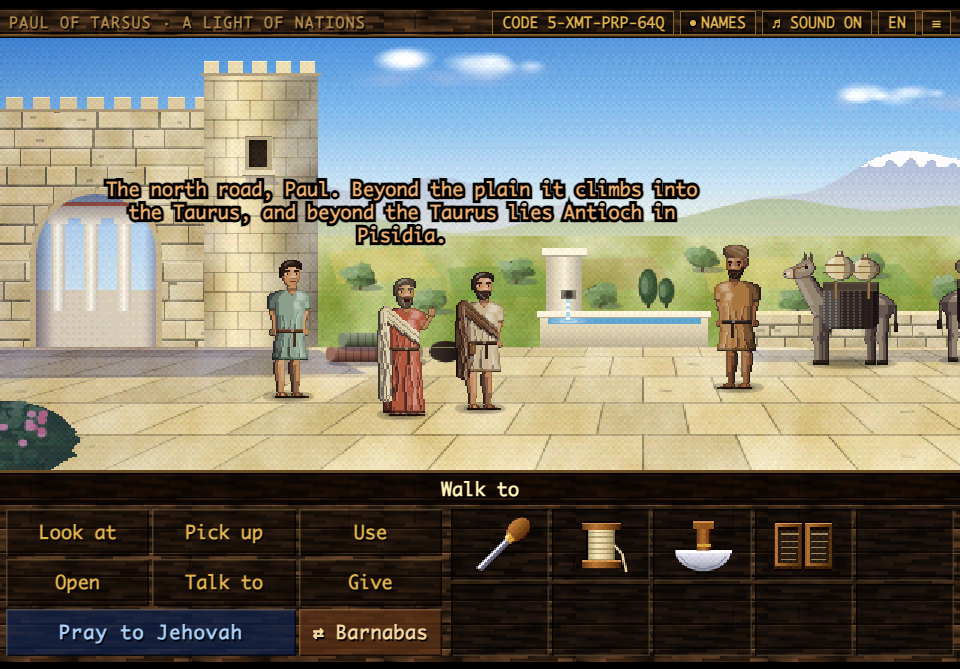
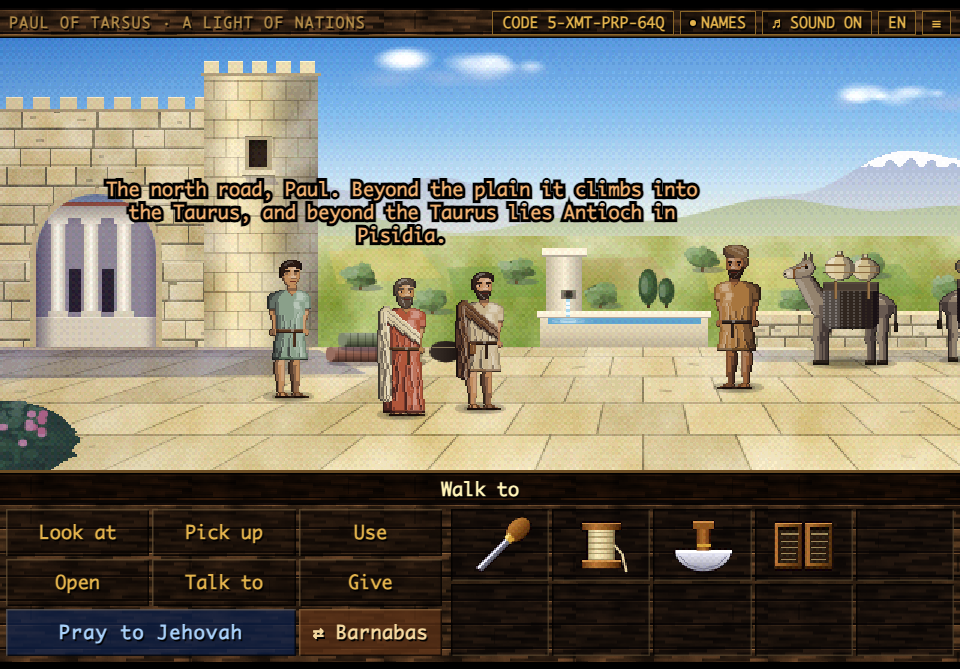
Streets: a street seen end-on is closed at its far end
Seven views where a street, seen end-on or through a gate, stopped against
the sky 12 to 18 pixels under the level its scene's paving runs to.

- Antioch, the courtyard gate (Chapters Three and Seven): the colonnade across
  the street has its shaded back wall and a doorway behind the columns. Sky
  and a strip of ground ran on behind them before, and each column stood
  across that level line. Chapter Seven showed two houses through this same
  gate; it now shows the colonnade of Chapter Three.
- Perga, the north gate: the colonnade inside it has its back wall, and the
  ground ends at its foot.
- The side streets of Antioch in Pisidia, Iconium (Chapters Six and Seven)
  and Philippi: a house front stands across the far end, its roof at the
  level the paving runs to.
- The documentation picture of Perga is retaken.

Changed region(s): [[0.0312, 0.3288, 0.1875, 0.4783], [0.4375, 0.4484, 0.4688, 0.5082]]

diff --git a/levels/chapter5.js b/levels/chapter5.js
@@ -64,12 +64,12 @@ ART.perga={w:480,fp:1.3,
   poly(g,[452,104,480,104,480,96,430,84,404,74,394,68,391,68,398,74,420,85,440,96],'#e6d8b0');stroke(g,[452,104,440,96,420,85,398,74,391,68],'rgba(120,100,60,.4)',.5);
   for(const[x,y]of[[136,80],[160,88],[188,78],[216,86],[306,76],[332,84],[358,78],[250,74],[282,88],[380,90]]){oval(g,x+2,y+3.4,5.6,1.1,'rgba(50,60,90,.34)');R(g,x-.4,y+1,1.2,2.8,'#5a4630');foliage(g,x,y-.6,5,3.2,'#6f8a58',r,22)}
   for(const[x,h]of[[232,12],[238,9],[346,11],[468,13],[474,9]])cypress(g,x,90,h);
-  /* the wall of Perga and its north gate, a round tower beside it */
+  /* the wall of Perga and its north gate, a round tower beside it. Through the gate: a colonnade of the city, whose shaded back wall closes the view */
   ashlar(g,0,24,112,80,ST,r,{bw:13,bh:6.4,v:.09,t:.35});for(let i=0;i<86;i+=9){R(g,i,19.6,5.6,4.4,ST);R(g,i,19.6,5.6,.5,'#f4e8c8')}R(g,0,23.6,112,1,'#a8987a');
   g.fillStyle=lg(g,84,0,122,0,['#b8ab8a','#efe2bc','#dccfa8','#a39a84','#8a8478']);g.fillRect(84,12,38,92);inRect(g,84,12,38,92,()=>{for(let j=14;j<104;j+=6.4)R(g,84,j,38,.6,'rgba(70,56,40,.3)');
     for(let j=0;j<15;j++)for(let i=0;i<5;i++)R(g,87+i*8+(j%2)*4,14+j*6.4,.6,6.4,'rgba(70,56,40,.2)');tex(g,'mott',.4,84,12,38,92,'overlay',1)});
   for(let i=84;i<122;i+=8){R(g,i,7.6,5,4.4,'#e2d5b0');R(g,i,7.6,5,.5,'#f8eccc')}R(g,83,11.6,40,1.2,'#a8987a');windowArt(g,99,34,6,9,ST,{dark:'#241a16'});
-  arch(g,26,50,44,54,'#c2b28c');g.save();arch(g,28,52,40,52);g.clip();sky(g,480,84,['#6aa2dc','#cfe2ee']);R(g,28,84,40,20,'#d9d0bc');
+  arch(g,26,50,44,54,'#c2b28c');g.save();arch(g,28,52,40,52);g.clip();sky(g,480,84,['#6aa2dc','#cfe2ee']);R(g,28,60,40,33,'#8f8894');for(const x of[38.8,49.8])R(g,x,77,4,14.4,'#2a2430');R(g,28,93,40,11,'#d9d0bc');R(g,28,93,40,.6,'#efe8d6');
   for(const cxx of[33,44,55]){g.fillStyle=lg(g,cxx,0,cxx+4.6,0,['#d8d0bc','#fbf7ea','#c8c0b0']);g.fillRect(cxx,62,4.6,30);R(g,cxx-1,60,6.6,2,'#efe8d6');R(g,cxx-1,91,6.6,2,'#d8d0bc')}R(g,28,56,40,4,'#e6dec8');R(g,28,54.6,40,1.6,'#b8603c');
   ao(g,28,52,40,11,'t',.55,'#2a2440');ao(g,28,52,6,52,'l',.5,'#2a2440');ao(g,64,52,4,52,'r',.35,'#2a2440');g.restore();
   for(let i=0;i<9;i++){const a=Math.PI+i/8*Math.PI;R(g,48+Math.cos(a)*22-.3,72+Math.sin(a)*22-1,.6,2.6,'#a8987a')}
@@ -161,8 +161,9 @@ ART.pisidia={w:480,fp:1.3,
   sky(g,480,70,['#3470c4','#629ad8','#9ec2e6','#d8e6ee']);cloud(g,96,9,54,7,r);cloud(g,262,16,46,6,r);cloud(g,420,8,40,6,r);
   /* the mountains north-east of the city, white half way down */
   snowy(g,0,480,62,sultan,['#93a2c8','#b2bcd0','#ccd0cc'],34);comp(g,'screen',.26,()=>R(g,0,6,480,58,'#d0dcee'));
-  /* the street we came by, running down to the south gate */
+  /* the street we came by, running down to the south gate. A house front stands across its far end, its roof at the level the paving runs to */
   R(g,0,40,58,64,'#cfc4a8');g.save();g.beginPath();g.rect(0,30,58,74);g.clip();sky(g,480,80,['#629ad8','#d8e6ee']);
+  R(g,22,65,10,39,'#d6d0c2');R(g,22,63,10,2.4,'#b8603c');R(g,22,72.4,10,1.6,'rgba(60,50,90,.2)');
   for(const[hx,hy,hw,hh,c]of[[0,44,16,60,'#d6caa8'],[40,50,18,54,'#e2d6b4'],[14,58,10,46,'#c8bc9c'],[30,62,10,42,'#d8ccac']]){R(g,hx,hy,hw,hh,c);R(g,hx,hy-2,hw,2.4,'#b8603c');R(g,hx+hw-2.4,hy,2.4,hh,'rgba(60,50,90,.3)')}
   poly(g,[16,104,40,104,31,74,25,74],'#e0d6ba');ao(g,0,30,58,12,'t',.2,'#2a2440');g.restore();
   /* the wool market: a stoa with a tiled roof, shops in its shade */

diff --git a/levels/chapter7.js b/levels/chapter7.js
@@ -113,11 +113,11 @@ ART.antioch7={w:320,
   house(g,0,46,102,58,W,r,{side:0,patch:2,cracks:4,beams:0});
   for(let i=0;i<104;i+=5.5){R(g,i,36,5,8.5,(i|0)%11?'#c0603c':'#a84c2c');R(g,i,36,5,.8,'#e08a60');R(g,i+4.5,36,.6,8.5,'#7a3620')}R(g,0,44.5,104,1.6,'#6a3a22');
   R(g,31,53,38,51,'#d8c8a0');doorArt(g,34,56,32,48,'#8a6a40',r);windowArt(g,80,58,10,10,W,{bars:2,wood:'#6a4e2c'});
-  /* the wall of the courtyard, and the gate to the street */
+  /* the wall of the courtyard, and the gate to the street: the colonnade across it, as in Chapter Three, with its back wall closing the view */
   house(g,102,48,178,56,tint(W,-.04),r,{side:0,patch:3,cracks:5,beams:0});
   R(g,280,40,40,64,'#d6c69e');for(let i=280;i<320;i+=5.5){R(g,i,36,5,5,(i|0)%11?'#c0603c':'#a84c2c');R(g,i,36,5,.6,'#e08a60')}poly(g,[280,36,275,39,275,104,280,104],'#a8a0b0');
-  arch(g,284,52,32,52,'#c2b28c');g.save();arch(g,286,54,28,50);g.clip();sky(g,320,80,['#74aade','#cfe2ee']);R(g,286,84,28,20,'#dcd5c3');
-  for(const[hx,hy,hw,hh,c]of[[286,66,10,38,'#d6caa8'],[304,62,10,42,'#e2d6b4']]){R(g,hx,hy,hw,hh,c);R(g,hx,hy-2,hw,2.2,'#b8603c')}poly(g,[292,104,310,104,304,84,298,84],'#e0d6ba');
+  arch(g,284,52,32,52,'#c2b28c');g.save();arch(g,286,54,28,50);g.clip();sky(g,320,80,['#74aade','#cfe2ee']);R(g,286,64,28,34,'#8f8894');R(g,297.6,80,4.8,16,'#2a2430');R(g,286,60,28,4,'#e2dac4');R(g,286,58.4,28,1.6,'#b8603c');
+  for(const cxx of[291,304]){g.fillStyle=lg(g,cxx,0,cxx+5,0,['#d8d0bc','#fbf7ea','#c8c0b0']);g.fillRect(cxx,64,5,34);R(g,cxx-1,96,7,2,'#d8d0bc')}R(g,286,98,28,6,'#cfc8b6');
   ao(g,286,54,28,9,'t',.5,'#2a2440');ao(g,286,54,5,50,'l',.45,'#2a2440');g.restore();
   /* the vine arbor */
   wood(g,126,43,3,63,'#6a4e2c',1);wood(g,226,43,3,63,'#6a4e2c',1);wood(g,126,40,103,3,'#7a5c36');for(let i=0;i<9;i++)wood(g,131+i*11.6,36.6,2.2,3.6,'#5a4226');
@@ -331,8 +331,9 @@ ART.iconium7={w:480,fp:1.3,
   g.fillStyle=lg(g,0,64,0,104,['#b8b48a','#a8a876','#98a068']);g.fillRect(186,64,114,40);tex(g,'mott',.5,186,64,114,40,'overlay',1);
   for(let i=0;i<7;i++){const fx=188+i*15+r()*6,fy=67+r()*8;poly(g,[fx,fy,fx+20,fy-1,fx+26,fy+7,fx+3,fy+8],i%3===0?'rgba(150,120,84,.4)':i%3===1?'rgba(96,130,76,.3)':'rgba(190,170,110,.3)')}
   for(const[x,y]of[[200,80],[228,75],[260,79],[286,84],[244,84]]){oval(g,x+2,y+3.4,5,1,'rgba(50,60,90,.34)');R(g,x-.4,y+1,1.2,2.8,'#5a4630');foliage(g,x,y-.6,4.6,3,'#7a8a5e',r,20)}
-  /* the street that runs back to the synagogue of the Jews */
+  /* the street that runs back to the synagogue of the Jews. A house front stands across its far end, its roof at the level the paving runs to */
   R(g,0,40,60,64,'#cfc4a8');g.save();g.beginPath();g.rect(0,28,60,76);g.clip();sky(g,480,80,['#7ea4d0','#e2e4dc']);
+  R(g,24,64,10,40,'#d6d0c2');R(g,24,62,10,2.4,'#b8603c');R(g,24,72.4,10,1.6,'rgba(60,50,90,.2)');
   for(const[hx,hy,hw,hh,c]of[[0,42,18,62,'#d6caa8'],[42,48,18,56,'#e2d6b4'],[16,56,10,48,'#c8bc9c'],[32,60,9,44,'#d8ccac']]){R(g,hx,hy,hw,hh,c);R(g,hx,hy-2,hw,2.4,'#b8603c');R(g,hx+hw-2.4,hy,2.4,hh,'rgba(60,50,90,.3)')}
   poly(g,[18,104,42,104,33,74,27,74],'#e0d6ba');ao(g,0,28,60,12,'t',.2,'#2a2440');g.restore();
   /* Nathan's saddlery: a plastered house, its whole front open to the street under an awning */

diff --git a/levels/chapter3.js b/levels/chapter3.js
@@ -99,9 +99,10 @@ ART.court={w:320,
   for(let i=0;i<104;i+=5.5){R(g,i,38,5,8.5,(i|0)%11?'#c0603c':'#a84c2c');R(g,i,38,5,.8,'#e08a60');R(g,i+4.5,38,.6,8.5,'#7a3620')}R(g,0,46.5,104,1.6,'#6a3a22');wood(g,0,48,104,1.6,'#7a5632');
   for(const x of[10,84]){g.fillStyle=lg(g,x,0,x+8,0,['#cfc6b0','#fbf6e6','#efe6cc','#b8b0a4']);g.fillRect(x,50,8,54);R(g,x-1.5,48.6,11,2.4,'#f8f2e0');R(g,x-1.5,102,11,3,'#d6ccb0');R(g,x-1.5,102,11,.6,'#fbf6e6');for(let j=0;j<3;j++)R(g,x+2+j*2,52,.5,49,'rgba(120,110,100,.25)')}
   vessel(g,75,106,6,19,'#a05a34','pithos');
-  /* the gate to the street */
+  /* the gate to the street. Across the street stands its colonnade, and the back wall of that colonnade closes the view: no ground runs on
+     behind the columns to a horizon of its own, and no level line lies behind them for a column to stand across. */
   R(g,280,40,40,64,'#d6c69e');for(let i=280;i<320;i+=5.5){R(g,i,36,5,5,(i|0)%11?'#c0603c':'#a84c2c');R(g,i,36,5,.6,'#e08a60')}poly(g,[280,36,275,39,275,104,280,104],'#a8a0b0');
-  arch(g,284,52,32,52,'#c2b28c');g.save();arch(g,286,54,28,50);g.clip();sky(g,320,80,['#74aade','#cfe2ee']);R(g,286,84,28,20,'#dcd5c3');R(g,286,60,28,4,'#e2dac4');R(g,286,58.4,28,1.6,'#b8603c');
+  arch(g,284,52,32,52,'#c2b28c');g.save();arch(g,286,54,28,50);g.clip();sky(g,320,80,['#74aade','#cfe2ee']);R(g,286,64,28,34,'#8f8894');R(g,297.6,80,4.8,16,'#2a2430');R(g,286,60,28,4,'#e2dac4');R(g,286,58.4,28,1.6,'#b8603c');
   for(const cxx of[291,304]){g.fillStyle=lg(g,cxx,0,cxx+5,0,['#d8d0bc','#fbf7ea','#c8c0b0']);g.fillRect(cxx,64,5,34);R(g,cxx-1,96,7,2,'#d8d0bc')}R(g,286,98,28,6,'#cfc8b6');
   ao(g,286,54,28,9,'t',.5,'#2a2440');ao(g,286,54,5,50,'l',.45,'#2a2440');g.restore();
   /* peg rail with the old pack bags, a tether ring */

diff --git a/levels/chapter8.js b/levels/chapter8.js
@@ -355,8 +355,10 @@ ART.philippi={w:480,fp:1.3,
   shade(g,[346,106,394,106,402,112,354,112],SH,.5);g.fillStyle=lg(g,362,0,374,0,['#b4aa94','#ece4ce','#a49c8a']);g.fillRect(362,68,12,30);R(g,360.6,66,14.8,2.6,'#f0e8d4');R(g,360.6,68.4,14.8,.6,'#a8a094');R(g,365,82,6,3,'#7a7466');R(g,367,82.6,2,2,'#2e2a26');
   g.fillStyle=lg(g,346,0,392,0,['#aca28c','#e8e0c8','#cec4ac','#8e8674']);g.fillRect(346,96,46,10);R(g,345,94.6,48,2,'#f0e8d4');R(g,345,96.4,48,.6,'#a8a094');R(g,348.6,95,40.8,1.2,'#4f8cb4');
   R(g,338,24,62,42,tint(W2,-.05));plaster(g,338,24,62,42,tint(W2,-.05),r,{patch:2,cracks:3});R(g,338,22.4,62,2,tint(W2,.16));
-  /* the street that runs on into the city, toward the marketplace: house fronts, tiled eaves, and the paving going on */
+  /* the street that runs on into the city, toward the marketplace: house fronts, tiled eaves, and the paving going on to the house that stands
+     across its far end, with its roof at the level the paving runs to */
   R(g,400,34,80,70,'#cfc4a8');g.save();g.beginPath();g.rect(400,26,80,78);g.clip();sky(g,480,82,['#76a8dc','#e2e6dc']);
+  R(g,431,63,17,41,'#d6d0c2');R(g,431,61,17,2.4,'#b8603c');R(g,435,65.6,2.4,3.2,'#3a2c22');R(g,431,70.4,17,1.6,'rgba(60,50,90,.2)');
   for(const[hx,hy,hw,hh,c]of[[400,40,22,64,'#d6caa8'],[458,36,22,68,'#e0d4b2'],[420,52,13,52,'#c8bc9c'],[446,56,13,48,'#d8ccac']]){R(g,hx,hy,hw,hh,c);R(g,hx,hy-2,hw,2.4,'#b8603c');R(g,hx+hw-2.4,hy,2.4,hh,'rgba(60,50,90,.3)');R(g,hx+hw*.3,hy+10,3,4,'#3a2c22')}
   poly(g,[424,104,458,104,447,72,437,72],'#ddd2b6');ao(g,400,26,80,12,'t',.2,'#2a2440');g.restore();poly(g,[400,24,395,27,395,104,400,104],'#9a94a8');
   /* the street itself: the great road from Asia to Rome, paved in slabs the wheels have rutted */

diff --git a/levels/chapter6.js b/levels/chapter6.js
@@ -104,8 +104,10 @@ ART.iconium={w:480,fp:1.3,
   g.fillStyle=lg(g,0,64,0,104,['#b4bc7c','#a2b468','#8fa858']);g.fillRect(186,64,114,40);tex(g,'mott',.5,186,64,114,40,'overlay',1);
   for(let i=0;i<7;i++){const fx=188+i*15+r()*6,fy=67+r()*8;poly(g,[fx,fy,fx+20,fy-1,fx+26,fy+7,fx+3,fy+8],i%3===0?'rgba(214,196,110,.42)':i%3===1?'rgba(96,140,70,.36)':'rgba(170,130,84,.3)')}
   for(const[x,y]of[[200,80],[228,75],[260,79],[286,84],[244,84]]){oval(g,x+2,y+3.4,5,1,'rgba(50,60,90,.34)');R(g,x-.4,y+1,1.2,2.8,'#5a4630');foliage(g,x,y-.6,4.6,3,'#6f8a58',r,20)}
-  /* the street we came by, running back to the synagogue of the Jews */
+  /* the street we came by, running back to the synagogue of the Jews. A house front stands across its far end, its roof at the level the
+     paving runs to: a street must not end in the sky below that level. */
   R(g,0,40,60,64,'#cfc4a8');g.save();g.beginPath();g.rect(0,28,60,76);g.clip();sky(g,480,80,['#6ea4dc','#e2e8dc']);
+  R(g,24,64,10,40,'#d6d0c2');R(g,24,62,10,2.4,'#b8603c');R(g,24,72.4,10,1.6,'rgba(60,50,90,.2)');
   for(const[hx,hy,hw,hh,c]of[[0,42,18,62,'#d6caa8'],[42,48,18,56,'#e2d6b4'],[16,56,10,48,'#c8bc9c'],[32,60,9,44,'#d8ccac']]){R(g,hx,hy,hw,hh,c);R(g,hx,hy-2,hw,2.4,'#b8603c');R(g,hx+hw-2.4,hy,2.4,hh,'rgba(60,50,90,.3)')}
   poly(g,[18,104,42,104,33,74,27,74],'#e0d6ba');ao(g,0,28,60,12,'t',.2,'#2a2440');g.restore();
   /* Nathan's saddlery: a plastered house, its whole front open to the street under an awning */
